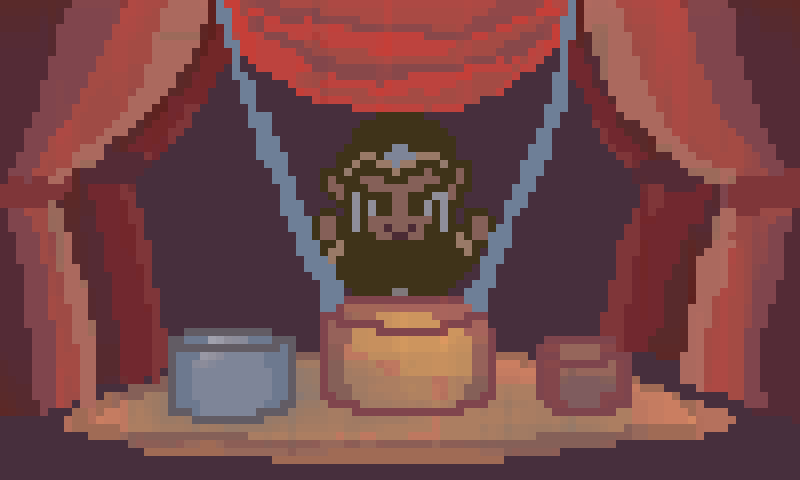
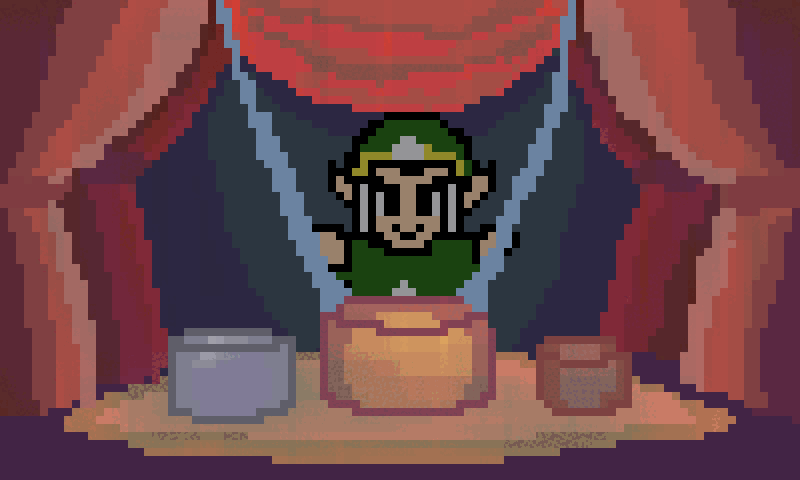
[FIX] Animaciones del juego fluidas
La animacion de los avatars, rafagas y proyectiles ahora se ve de manera fluida

Changed region(s): [[0.1562, 0.0938, 0.8125, 0.75], [0.1875, 0.75, 0.2188, 0.7812]]

diff --git a/Entidades.py b/Entidades.py
@@ -7,9 +7,46 @@ class Entidad:
         self.posicion = None  # (fila, col)
         self.movil = movil
 
+        #Atributos de animacion suave
+        self.x_visual = 0  # Posición X en píxeles para dibujo
+        self.y_visual = 0  # Posición Y en píxeles para dibujo
+        self.animando = False  # ¿Está en medio de una animación?
+        self.origen_x = 0  # Punto de inicio de la animación
+        self.origen_y = 0
+        self.destino_x = 0  # Punto final de la animación
+        self.destino_y = 0
+        self.progreso_animacion = 0.0  # Progreso de 0.0 a 1.0
+        self.duracion_animacion = 900  # Duración en milisegundos 
+
+
     def set_pos(self, fila, col):
-        """Establece la posición de la entidad."""
-        self.posicion = (fila, col)
+        """Establece la posición de la entidad e inicia animación suave."""
+        from game_logic import TAM_CASILLA
+        
+        # Si es la primera vez que se posiciona (spawn/creación)
+        if self.posicion is None:
+            self.posicion = (fila, col)
+            # Calcular posición visual inicial (centro de la casilla)
+            self.x_visual = col * TAM_CASILLA + TAM_CASILLA // 2
+            self.y_visual = fila * TAM_CASILLA + TAM_CASILLA // 2
+            self.animando = False
+        else:
+            # Ya tiene una posición previa, entonces iniciar animación
+            
+            # Guardar origen (posición visual ACTUAL)
+            self.origen_x = self.x_visual
+            self.origen_y = self.y_visual
+            
+            # Calcular destino (nueva posición en píxeles)
+            self.destino_x = col * TAM_CASILLA + TAM_CASILLA // 2
+            self.destino_y = fila * TAM_CASILLA + TAM_CASILLA // 2
+            
+            # Iniciar animación
+            self.animando = True
+            self.progreso_animacion = 0.0
+            
+            #Actualizar posicion logica
+            self.posicion = (fila, col)
 
     def take_damage(self, cantidad: int):
         """Aplica daño a la entidad y la elimina de la matriz si muere."""
@@ -27,6 +64,30 @@ class Entidad:
     def tick(self):
         """Método llamado en cada actualización del juego."""
         pass
+
+    def actualizar_animacion_movimiento(self, delta_ms):
+        """Actualiza la animación de movimiento suave."""
+        if not self.animando:
+            return
+        
+        # Calcular cuánto avanzar en la animación
+        incremento = delta_ms / self.duracion_animacion
+        self.progreso_animacion += incremento
+        
+        if self.progreso_animacion >= 1.0:
+            # Animación completada
+            self.progreso_animacion = 1.0
+            self.x_visual = self.destino_x
+            self.y_visual = self.destino_y
+            self.animando = False
+        else:
+            # Interpolar posición (movimiento suave)
+            self.x_visual = self.lerp(self.origen_x, self.destino_x, self.progreso_animacion)
+            self.y_visual = self.lerp(self.origen_y, self.destino_y, self.progreso_animacion)
+    
+    def lerp(self, inicio, fin, t):
+        """Interpolación lineal entre dos valores."""
+        return inicio + (fin - inicio) * t
 
 # CLASES DE ROOKS
 class Rook(Entidad):
@@ -127,7 +188,7 @@ class Avatar(Entidad):
         # Sistema de animación
         self.frame_actual = 1
         self.contador_frames = 0
-        self.frames_por_cambio = 2
+        self.frames_por_cambio = 6
 
     def can_move(self) -> bool:
         """Verifica si el avatar puede moverse."""
@@ -260,7 +321,18 @@ class ProyectilAvatar:
         self.dano = dano
         self.posicion = None
         self.move_cooldown = 0
-        self.move_cooldown_max = 5  # Velocidad media
+        self.move_cooldown_max = 3  # Velocidad media
+
+        #Atributos para animacion
+        self.x_visual = 0
+        self.y_visual = 0
+        self.animando = False
+        self.origen_x = 0
+        self.origen_y = 0
+        self.destino_x = 0
+        self.destino_y = 0
+        self.progreso_animacion = 0.0
+        self.duracion_animacion = 800  # Proyectiles muy rápidos 
 
     def can_move(self) -> bool:
         """Verifica si el proyectil puede moverse."""
@@ -276,8 +348,24 @@ class ProyectilAvatar:
         self.move_cooldown = self.move_cooldown_max
 
     def set_pos(self, fila, col):
-        """Establece la posición del proyectil."""
-        self.posicion = (fila, col)
+        """Establece la posición del proyectil e inicia animación."""
+        from game_logic import TAM_CASILLA
+        
+        if self.posicion is None:
+            # Primera vez (spawn)
+            self.posicion = (fila, col)
+            self.x_visual = col * TAM_CASILLA + TAM_CASILLA // 2
+            self.y_visual = fila * TAM_CASILLA + TAM_CASILLA // 2
+            self.animando = False
+        else:
+            # Movimiento posterior
+            self.origen_x = self.x_visual
+            self.origen_y = self.y_visual
+            self.destino_x = col * TAM_CASILLA + TAM_CASILLA // 2
+            self.destino_y = fila * TAM_CASILLA + TAM_CASILLA // 2
+            self.animando = True
+            self.progreso_animacion = 0.0
+            self.posicion = (fila, col)
 
     def take_damage(self, cantidad: int):
         """Los proyectiles no reciben daño, pero implementamos el método por consistencia."""
@@ -286,6 +374,27 @@ class ProyectilAvatar:
     def tick(self):
         """Actualiza el cooldown de movimiento."""
         self.move_tick()
+
+    def actualizar_animacion_movimiento(self, delta_ms):
+        """Actualiza la animación de movimiento suave."""
+        if not self.animando:
+            return
+        
+        incremento = delta_ms / self.duracion_animacion
+        self.progreso_animacion += incremento
+        
+        if self.progreso_animacion >= 1.0:
+            self.progreso_animacion = 1.0
+            self.x_visual = self.destino_x
+            self.y_visual = self.destino_y
+            self.animando = False
+        else:
+            self.x_visual = self.lerp(self.origen_x, self.destino_x, self.progreso_animacion)
+            self.y_visual = self.lerp(self.origen_y, self.destino_y, self.progreso_animacion)
+    
+    def lerp(self, inicio, fin, t):
+        """Interpolación lineal entre dos valores."""
+        return inicio + (fin - inicio) * t
 
 # CLASE RAFAGA
 class Rafaga:
@@ -296,7 +405,18 @@ class Rafaga:
         self.dano = dano
         self.posicion = None
         self.move_cooldown = 0  # Cooldown para controlar velocidad
-        self.move_cooldown_max = 5  # Ajusta este valor: más alto = más lento (aumentado para hacer más lentas)
+        self.move_cooldown_max = 3  # Ajusta este valor: más alto = más lento (aumentado para hacer más lentas)
+
+        #Atributos para animacion visual
+        self.x_visual = 0
+        self.y_visual = 0
+        self.animando = False
+        self.origen_x = 0
+        self.origen_y = 0
+        self.destino_x = 0
+        self.destino_y = 0
+        self.progreso_animacion = 0.0
+        self.duracion_animacion = 700
 
     def can_move(self) -> bool:
         """Verifica si la ráfaga puede moverse."""
@@ -312,8 +432,33 @@ class Rafaga:
         self.move_cooldown = self.move_cooldown_max
 
     def set_pos(self, fila, col):
-        """Establece la posición de la ráfaga."""
-        self.posicion = (fila, col)
+        """Establece la posición de la ráfaga e inicia animación."""
+        from game_logic import TAM_CASILLA
+        
+        # Calcular nueva posición en píxeles
+        nuevo_x = col * TAM_CASILLA + TAM_CASILLA // 2
+        nuevo_y = fila * TAM_CASILLA + TAM_CASILLA // 2
+        
+        if self.posicion is None:
+            #Primera vez (spawn) - colocar directamente sin animar
+            self.posicion = (fila, col)
+            self.x_visual = nuevo_x
+            self.y_visual = nuevo_y
+            self.animando = False
+        else:
+            #Movimiento posterior - SIEMPRE animar
+            # Guardar origen ANTES de cambiar posición lógica
+            self.origen_x = self.x_visual
+            self.origen_y = self.y_visual
+            self.destino_x = nuevo_x
+            self.destino_y = nuevo_y
+            
+            # Iniciar animación
+            self.animando = True
+            self.progreso_animacion = 0.0
+            
+            # Actualizar posición lógica DESPUÉS de guardar origen
+            self.posicion = (fila, col)
 
     def take_damage(self, cantidad: int):
         """Las ráfagas no reciben daño, pero implementamos el método por consistencia."""
@@ -322,6 +467,28 @@ class Rafaga:
     def tick(self):
         """Actualiza el cooldown de movimiento."""
         self.move_tick()
+
+    #metodos para animacion visual
+    def actualizar_animacion_movimiento(self, delta_ms):
+        """Actualiza la animación de movimiento suave."""
+        if not self.animando:
+            return
+        
+        incremento = delta_ms / self.duracion_animacion
+        self.progreso_animacion += incremento
+        
+        if self.progreso_animacion >= 1.0:
+            self.progreso_animacion = 1.0
+            self.x_visual = self.destino_x
+            self.y_visual = self.destino_y
+            self.animando = False
+        else:
+            self.x_visual = self.lerp(self.origen_x, self.destino_x, self.progreso_animacion)
+            self.y_visual = self.lerp(self.origen_y, self.destino_y, self.progreso_animacion)
+    
+    def lerp(self, inicio, fin, t):
+        """Interpolación lineal entre dos valores."""
+        return inicio + (fin - inicio) * t
 
 # Diccionario de ayuda para crear rooks por tipo
 TIPOS_ROOK = {

diff --git a/game_logic.py b/game_logic.py
@@ -87,12 +87,29 @@ class GameLogic:
                             if e.vida <= 0:
                                 self.eliminar_avatar_con_sonido(e, f, c)
                                 continue
-                        
-                        # 2. Game over si llega arriba
+
+                        # 2. Game over si llega arriba Y terminó de animar
                         if f == 0:
-                            if on_game_over_callback:
-                                on_game_over_callback()
-                            return
+                            # VERIFICAR QUE EL AVATAR ESTÉ REALMENTE EN LA MATRIZ
+                            if e not in matriz_juego[0][c]:
+                                continue  # Avatar zombie, ignorar
+                            
+                            # Verificar si la animacion esta activa
+                            if not getattr(e, 'animando', False):
+                                if on_game_over_callback:
+                                    on_game_over_callback()
+                                return
+                            else:
+                                #Contar cuánto tiempo lleva animando
+                                if not hasattr(e, 'frames_en_fila_0'):
+                                    e.frames_en_fila_0 = 0
+                                e.frames_en_fila_0 += 1
+                                
+                                #Si lleva más de 100 frames animando en fila 0, forzar game over
+                                if e.frames_en_fila_0 > 100:
+                                    if on_game_over_callback:
+                                        on_game_over_callback()
+                                    return
                         
                         # 3. ATAQUE A DISTANCIA (Flechador y Escudero)
                         if e.ataque_a_distancia and e.can_shoot():
@@ -112,6 +129,9 @@ class GameLogic:
 
                         destino = f - 1
 
+                        if f == 0:
+                            continue
+
                         #Para avatars a distancia (Flechador y Escudero)
                         if e.ataque_a_distancia:
                             # Verificar si hay rooks adelante usando el método que agregaste
@@ -127,9 +147,19 @@ class GameLogic:
                         rook_dest = [r for r in matriz_juego[destino][c] if isinstance(r, Rook)]
                         if rook_dest:
                             if not e.ataque_a_distancia:
-                                # Solo avatars cuerpo a cuerpo atacan directamente
+                                # Avatars cuerpo a cuerpo: atacar Y verificar si el rook murió
                                 e.attack(rook_dest[0])
-                            continue  # No moverse si hay rook en destino
+                                
+                                # Si el rook murió, el avatar puede avanzar a esa casilla
+                                if rook_dest[0].vida <= 0:
+                                    # El rook murió, continuar con el movimiento normal
+                                    pass 
+                                else:
+                                    # El rook sigue vivo, no avanzar
+                                    continue
+                            else:
+                                # Avatars a distancia no avanzan si hay rook
+                                continue
 
                         # RESTRICCIÓN: NO MÁS DE UN AVATAR POR CASILLA
                         avatar_dest = [a for a in matriz_juego[destino][c] if isinstance(a, Avatar)]

diff --git a/game_interface.py b/game_interface.py
@@ -591,6 +591,7 @@ class GameInterface:
         # Iniciar bucles principales
         self.root.after(1000, self.actualizar_tiempo)
         self.actualizar_juego()
+        self.bucle_visual()  
 
     def programar_generacion(self, tipo):
         """Programa la generación de un avatar del tipo especificado."""
@@ -659,11 +660,22 @@ class GameInterface:
         # Actualizar lógica del juego
         self.game_logic.actualizar_logica_juego(self.game_over)
         
+        # Programar siguiente actualización
+        self.root.after(self.velocidad, self.actualizar_juego)
+
+    def bucle_visual(self):
+        """Bucle de ANIMACIÓN y DIBUJO - 60 FPS."""
+        if self.juego_terminado:
+            return
+        
+        # Actualizar animaciones (movimiento suave)
+        self.actualizar_animaciones()
+        
         # Dibujar estado actual
         self.dibujar_entidades()
         
-        # Programar siguiente actualización
-        self.root.after(self.velocidad, self.actualizar_juego)
+        # Programar siguiente frame visual
+        self.root.after(16, self.bucle_visual)
 
     def dibujar_entidades(self):
         """Dibuja todas las entidades del juego (rooks, avatars, ráfagas, proyectiles) en el canvas."""
@@ -674,8 +686,15 @@ class GameInterface:
         for f in range(FILAS):
             for c in range(COLUMNAS):
                 for e in matriz[f][c]:
-                    cx = c * TAM_CASILLA + TAM_CASILLA // 2
-                    cy = f * TAM_CASILLA + TAM_CASILLA // 2
+
+                    # Usar posición visual si está disponible
+                    if hasattr(e, 'x_visual') and hasattr(e, 'y_visual'):
+                        cx = e.x_visual
+                        cy = e.y_visual
+                    else:
+                        # Fallback: calcular desde posición lógica
+                        cx = c * TAM_CASILLA + TAM_CASILLA // 2
+                        cy = f * TAM_CASILLA + TAM_CASILLA // 2
                     
                     if isinstance(e, Rook):
 
@@ -692,6 +711,21 @@ class GameInterface:
                     elif isinstance(e, ProyectilAvatar):
                         
                         self.DibujarProyectilAvatar(cx,cy,e)
+
+    def actualizar_animaciones(self):
+        """Actualiza las animaciones de todas las entidades en el tablero."""
+        from game_logic import get_matriz_juego, FILAS, COLUMNAS
+        
+        matriz = get_matriz_juego()
+        delta_ms = 16  # Aproximadamente 60 FPS (16ms por frame)
+        
+        # Recorrer todas las entidades en la matriz
+        for f in range(FILAS):
+            for c in range(COLUMNAS):
+                for e in matriz[f][c]:
+                    # Si la entidad tiene el método actualizar_animacion, llamarlo
+                    if hasattr(e, 'actualizar_animacion_movimiento'):
+                        e.actualizar_animacion_movimiento(delta_ms)
     
     def DibujarRook(self, cx, cy, e):
         """Dibuja una torre (Rook) en el canvas con su imagen o forma de respaldo."""
